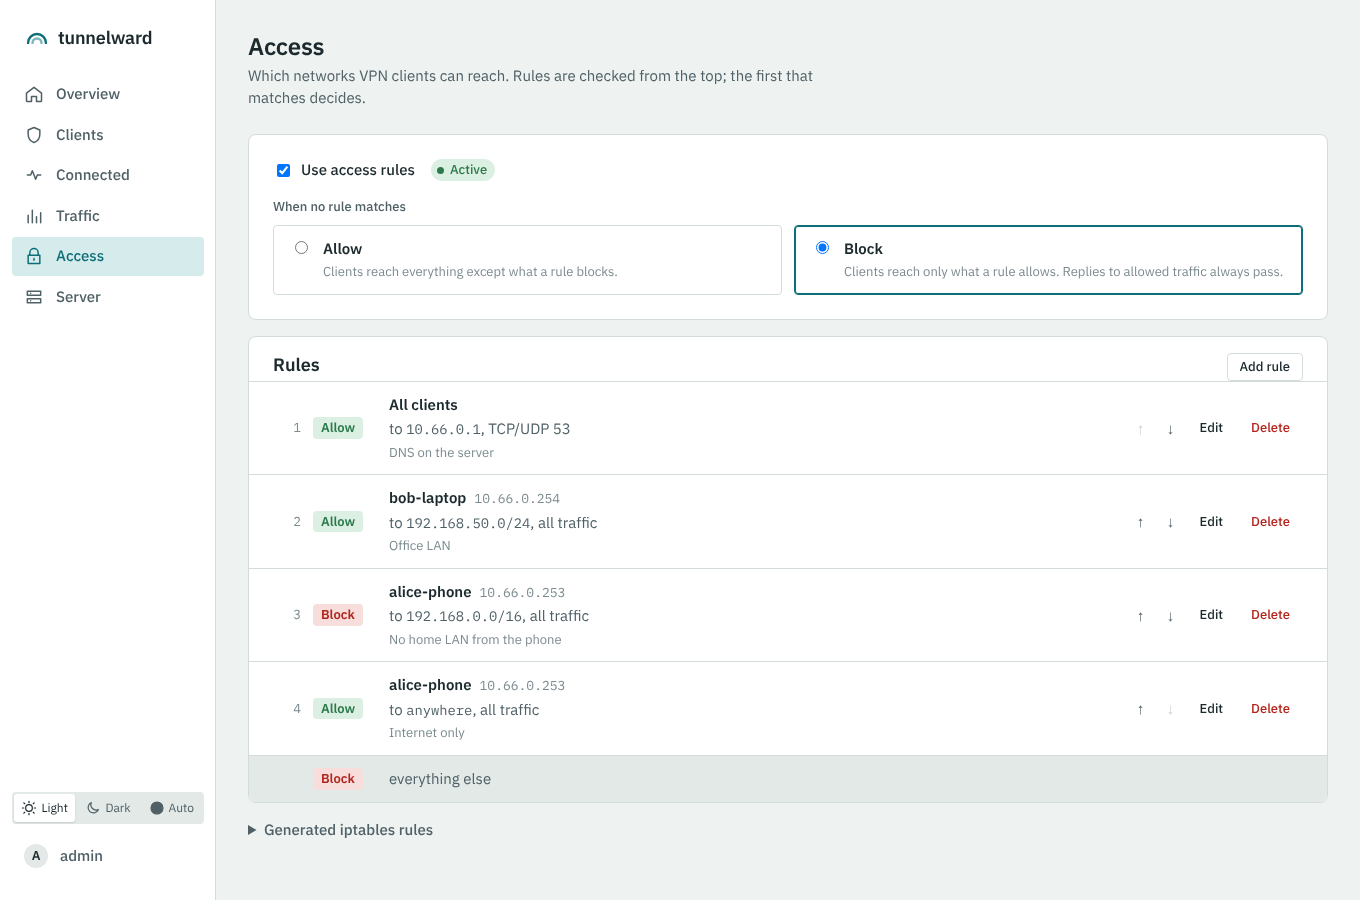
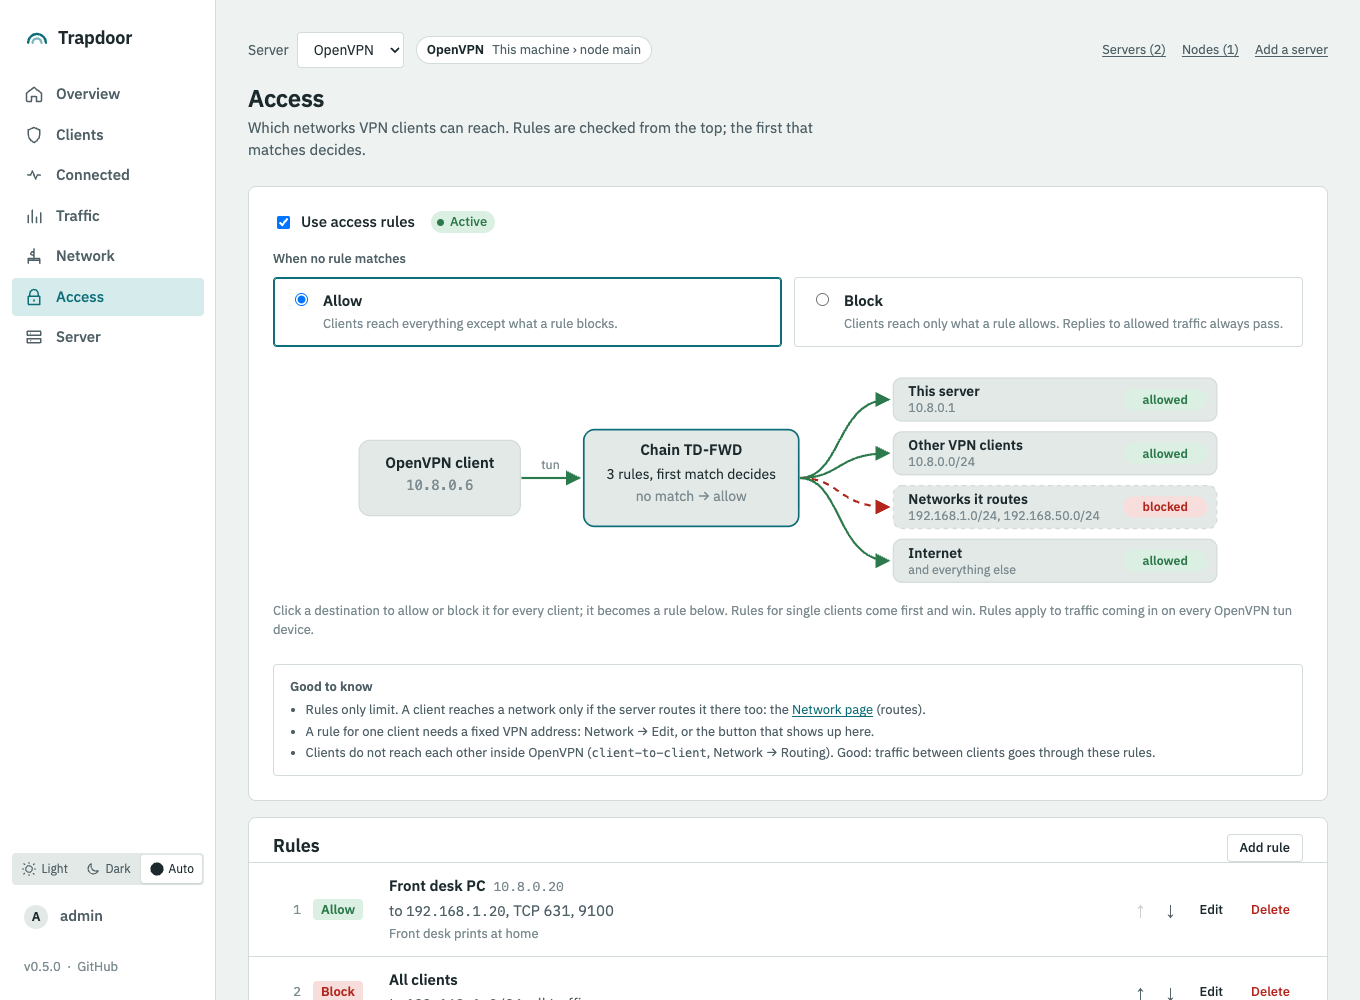
Release notes for v0.5.0; new screenshots, README and roadmap
Screenshots retaken with demo data (admin, TD_TZ=UTC, a neutral
hostname): they showed the old name and none of the Network page, the
Access diagram or display names. README adds the Network page, its
routing tab and WireGuard's; the roadmap and the guide follow.

diff --git a/docs/releases/v0.5.0.md b/docs/releases/v0.5.0.md
@@ -1,0 +1,65 @@
+**See who reaches what.** A Network page with a map for every server type, routing in one
+place, an Access diagram you can click, and display names everywhere.
+
+## Network page
+
+One page per server (menu → Network), the same for OpenVPN, WireGuard and AmneziaWG:
+
+- **Map**: clients on the left (routers first, connected ones with a green line), the
+  server in the middle, the networks on the right: each one *through the server* or *behind*
+  a client, with who reaches it, and the internet (which clients send everything through
+  the VPN). Click a client or a network to change it.
+- **Needs attention**, each with a button: a LAN behind a client without a server `route`
+  (*Add the route*), a LAN nobody reaches (*Give it to clients*), LANs behind two clients
+  that overlap, a server route no client serves. Saved `server.conf` changes offer *Apply and
+  restart*, with rollback if OpenVPN does not come back.
+- **Clients** tab: connected dot, routers marked, the live address next to "automatic" with
+  *Make fixed*, each client's own access rules, *Reconnect* (OpenVPN), search, cards on
+  phones.
+- **Routing** tab: all traffic through the VPN, client-to-client, the routes every client
+  gets and the networks the server sends into the VPN, each with where it is. WireGuard /
+  AmneziaWG: the default allowed IPs, with a switch for all traffic.
+- **Named networks** tab (OpenVPN).
+- WireGuard / AmneziaWG: the map comes from the allowed IPs; a client's address, allowed IPs,
+  DNS and LANs are edited right on the page.
+
+With `client-to-client` (common on servers set up by openvpn-ui) OpenVPN carries client
+traffic to LANs behind other clients itself, so a missing server route is not flagged there.
+
+## Access diagram
+
+The Access page shows what the rules mean for a client: this server, other VPN clients, the
+networks the server routes and the internet, each allowed or blocked. Click one to switch it
+for every client; it becomes an ordinary rule, after the rules for single clients so those
+still win. A *Good to know* box says what the rules need (routes, fixed addresses,
+client-to-client off, `TD_FIREWALL`).
+
+## Display names
+
+An OpenVPN client's display name ("Anna's phone") shows on every page now: Overview,
+Connected, Traffic, Network and Access, with the login in the tooltip.
+
+## Also
+
+- The sidebar shows the version and links to GitHub; the name is "Trapdoor".
+- WireGuard / AmneziaWG get the same Overview and Server pages as OpenVPN.
+- Naming routes that clients already have no longer rewrites their ccd files.
+
+## Moved
+
+- OpenVPN: full tunnel, client-to-client and the routes moved from the Server page to
+  Network → Routing (the raw `server.conf` editor still has everything).
+- WireGuard / AmneziaWG: the default allowed IPs moved from the server settings to
+  Network → Routing.
+
+## Tests
+
+The map, the routing editors and the Access switches have unit tests; the e2e test checks
+with real OpenVPN and WireGuard that a server route becomes a kernel route into the tunnel,
+the routing switches render into `server.conf`, the default allowed IPs reach client
+configs, a client's LAN reaches the interface at once, and the Access switches' rule shapes
+filter real traffic.
+
+## Upgrading from 0.4
+
+`docker compose pull && docker compose up -d`. Nothing to change.

diff --git a/README.md b/README.md
@@ -26,6 +26,14 @@ same two-factor logins.
 | --- |
 | <img src="docs/screenshots/servers.png" width="800"> |
 
+| Network: who reaches what, with fixes |
+| --- |
+| <img src="docs/screenshots/network.png" width="800"> |
+
+| Routing (dark) | WireGuard network (dark) |
+| --- | --- |
+| <img src="docs/screenshots/network-routing-dark.png" width="400"> | <img src="docs/screenshots/network-wireguard-dark.png" width="400"> |
+
 | Clients | Traffic | Access rules |
 | --- | --- | --- |
 | <img src="docs/screenshots/clients.png" width="300"> | <img src="docs/screenshots/traffic-dark.png" width="300"> | <img src="docs/screenshots/access.png" width="300"> |
@@ -57,15 +65,14 @@ same two-factor logins.
 - **Setup** that creates the certificate authority, keys and `server.conf` with modern
   defaults (tls-crypt-v2, AES-GCM, TLS 1.2+) ([what it asks](docs/guide.md#setup))
 - **Clients**: create, download the `.ovpn` profile, revoke, restore, renew (also in bulk),
-  optional key passphrase; warnings before certificates expire
+  optional key passphrase; a display name ("Anna's phone") shown on every page; warnings
+  before certificates expire
 - **Two-factor login** per client with an authenticator app (QR code) and/or a static password
 - **Connected now**: live sessions with traffic, disconnect a device
 - **Traffic history** per client and for the whole server: any date range, by day, month or
   year, CSV export
 - **Network per client**: fixed VPN address, routes, networks behind a client (site-to-site),
-  all traffic through the VPN; named networks (e.g. "Office LAN") given to several clients at once;
-  a Network page with a map of who reaches what, one-click fixes for missing routes, and all
-  of the server's routing in one place
+  all traffic through the VPN; named networks (e.g. "Office LAN") given to several clients at once
 - **Access rules**: which client may reach which network or port; everything else allowed or
   blocked; a diagram with a switch per destination
 - **Server settings** in a form or as raw `server.conf`, checked by OpenVPN before saving,
@@ -78,11 +85,16 @@ same two-factor logins.
   ([how](docs/guide.md#wireguard-servers))
 - **AmneziaWG** hides the VPN from blocking: obfuscation levels 1.5, 2.0 (default) and 3.1,
   random values within the AmneziaWG limits; no kernel module needed in Docker
-- Live state from the interface, traffic history and access rules as for OpenVPN
+- Live state from the interface, traffic history, access rules and the Network page as for
+  OpenVPN; the default allowed IPs are the routing
 - Changes apply without disconnecting anybody (`wg syncconf`)
 
 **Everywhere**
 
+- **Network page** for every server type: a map of clients, the server and the networks they
+  reach (behind which client, or through the server), *Needs attention* with a fix button
+  (e.g. *Add the route*), and tabs for the clients, the routing and the named networks
+  ([how](docs/guide.md#the-network-page))
 - Light / dark / auto theme, works on phones
 - Secure by design: the web UI has no privileges, admin passwords are hashed, login attempts
   are throttled, no external scripts or CDNs

diff --git a/ROADMAP.md b/ROADMAP.md
@@ -104,6 +104,11 @@ AmneziaWG side by side: several VPN servers of any type on one host, managed in 
       own start / stop scripts run by the vpn container; editable in the UI with `TD_SCRIPTS=on`
 - [x] Display names for OpenVPN clients (`#TD_NOTE:` in ccd); the same Overview and Server
       pages for every server type, Overview opens after switching servers
+- [x] Display names on every page (Overview, Connected, Traffic, Network, Access)
+- [x] Access diagram: what the rules mean per destination, a switch for each (writes the rule)
+- [x] Network page for every server type: map of who reaches what, *Needs attention* with
+      fixes (missing route, LAN nobody reaches, overlapping LANs), tabs for clients, routing
+      (moved from the Server page) and named networks; WireGuard client network in place
 - [ ] Audit log
 - [ ] easyrsa `vars` in the native PKI: certificate name fields (`EASYRSA_DN` org mode:
       country, province, city, org, email, OU), key type and size, digest, CA / certificate /

diff --git a/docs/guide.md b/docs/guide.md
@@ -241,6 +241,8 @@ and `phone`. Manage them under Clients → Named networks, or with
 
 Everything about routing is on one page (menu → Network), the same for every server type:
 
+<img src="screenshots/network.png" width="720">
+
 - **Map**: clients on the left (routers first, online ones with a green line), the server in
   the middle, the networks on the right: each one through the server or behind a client,
   with who reaches it ("every client", names, or "nobody yet"), and the internet (which
